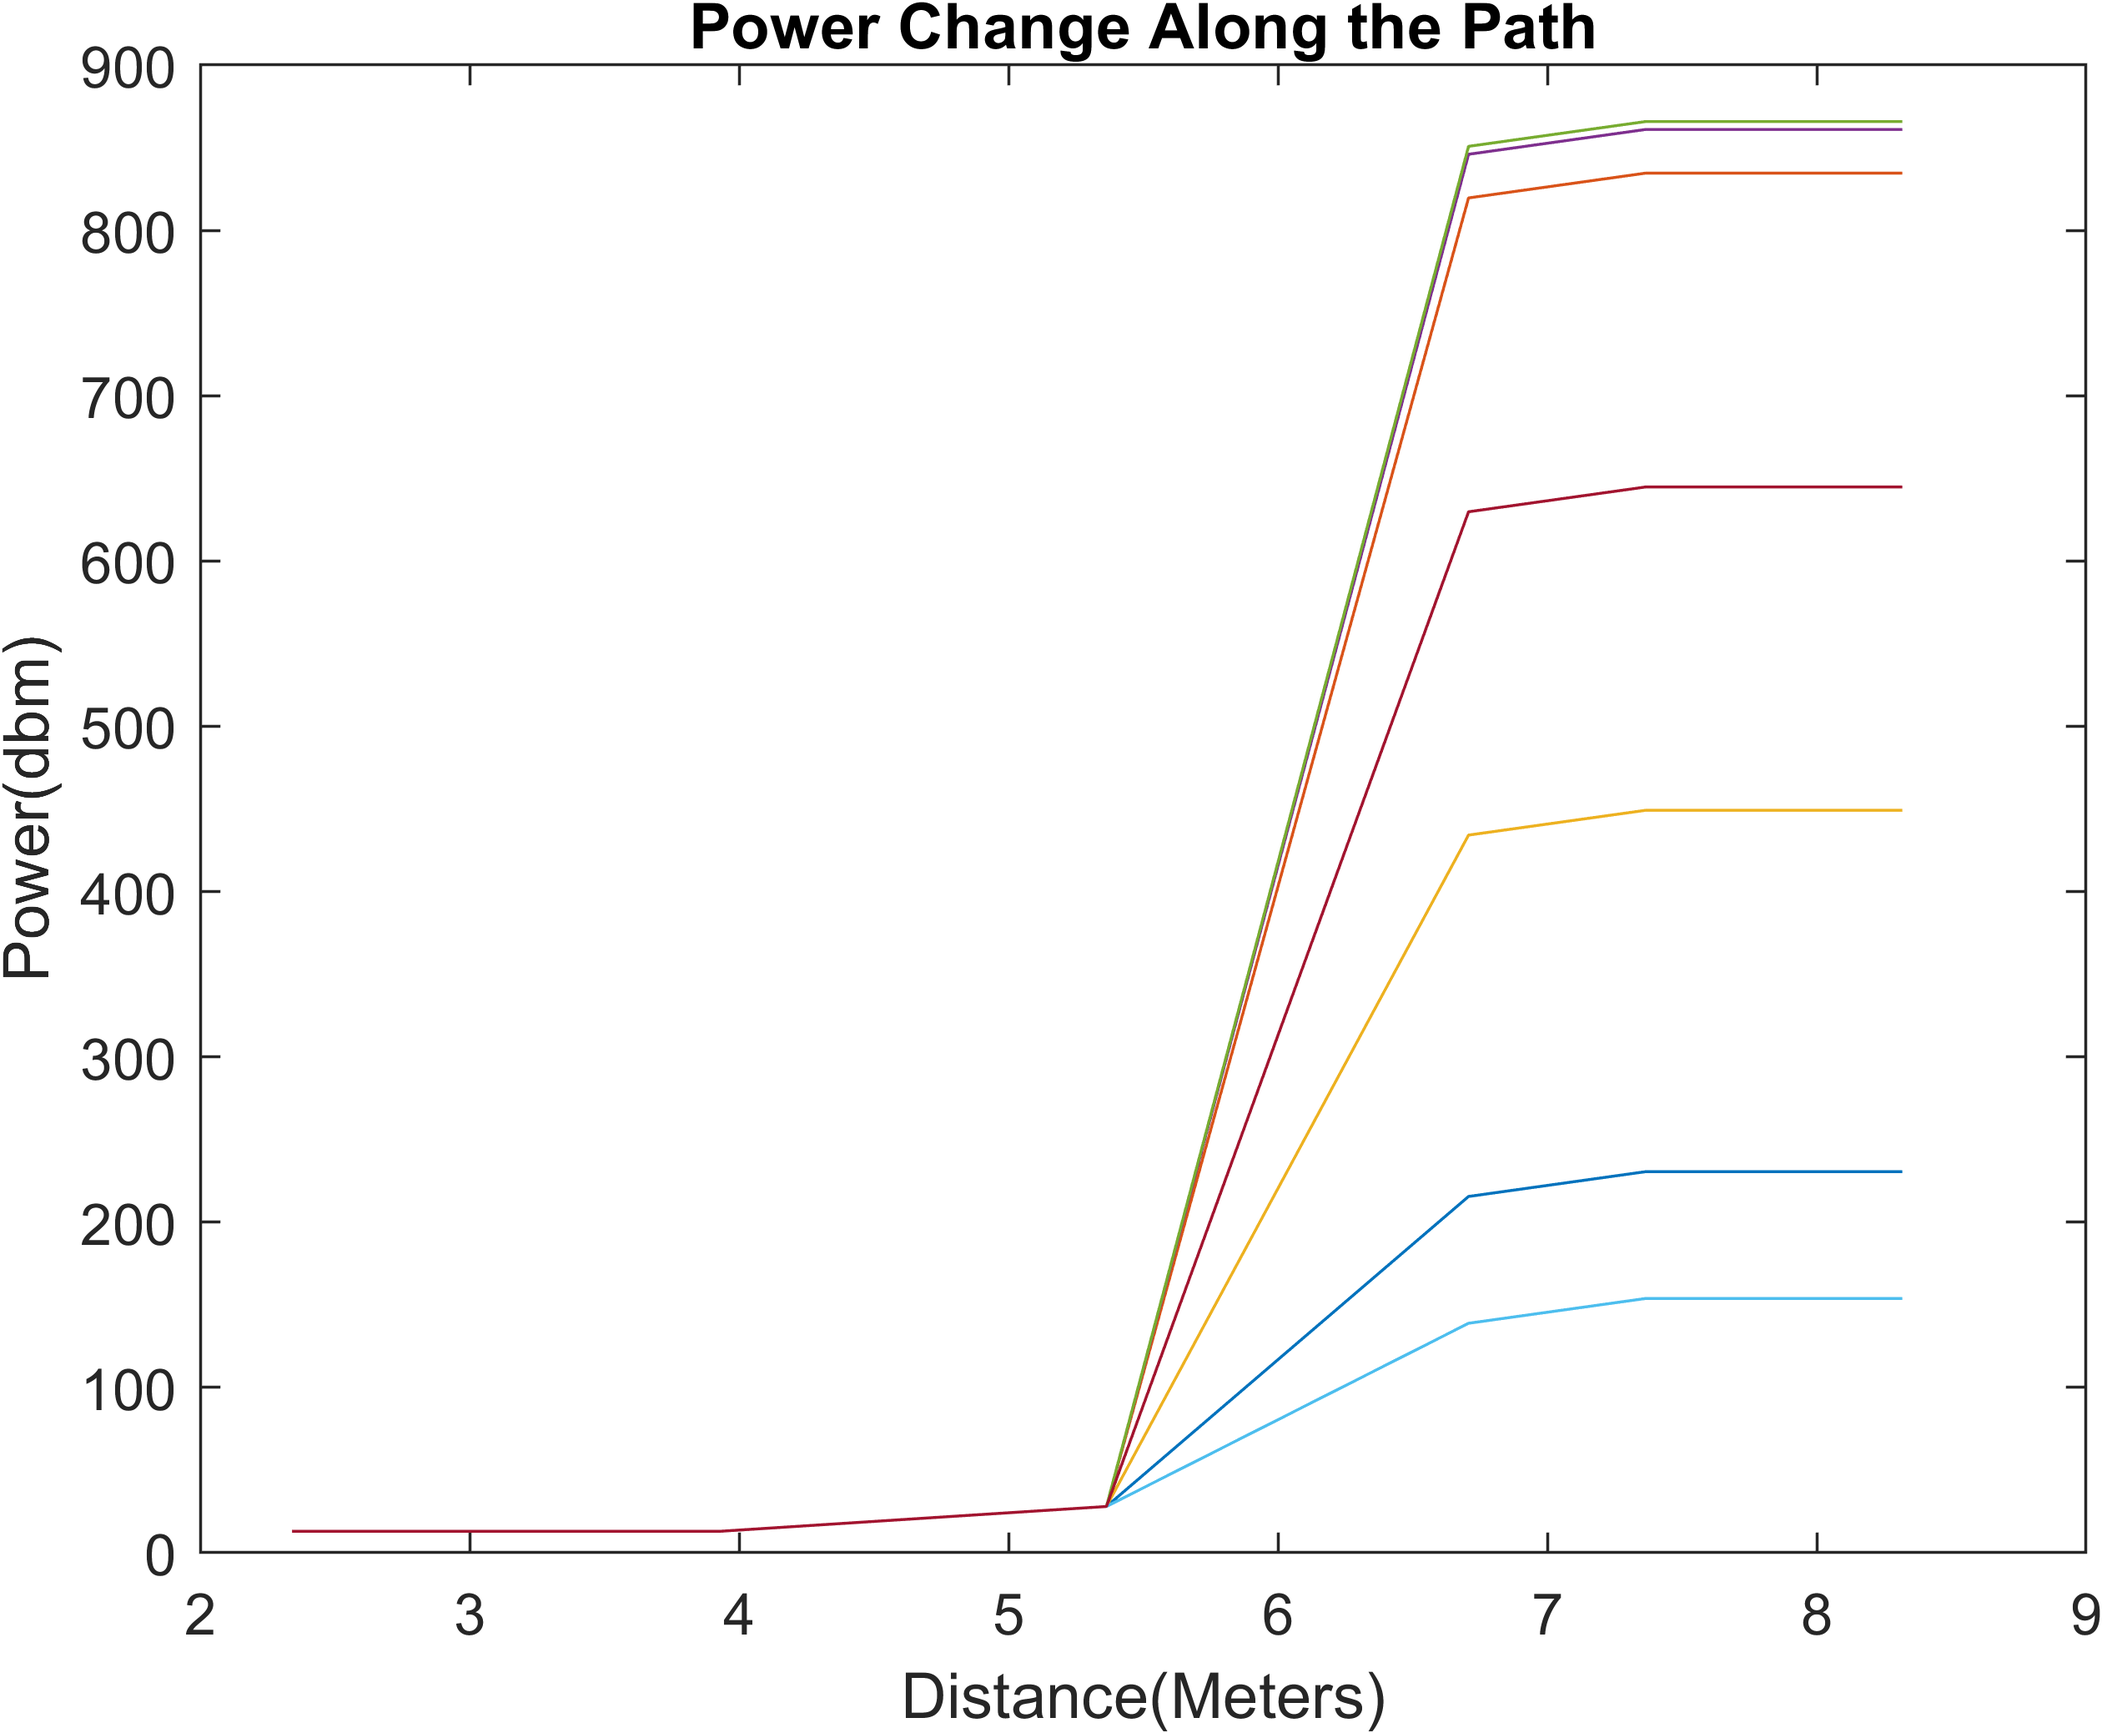
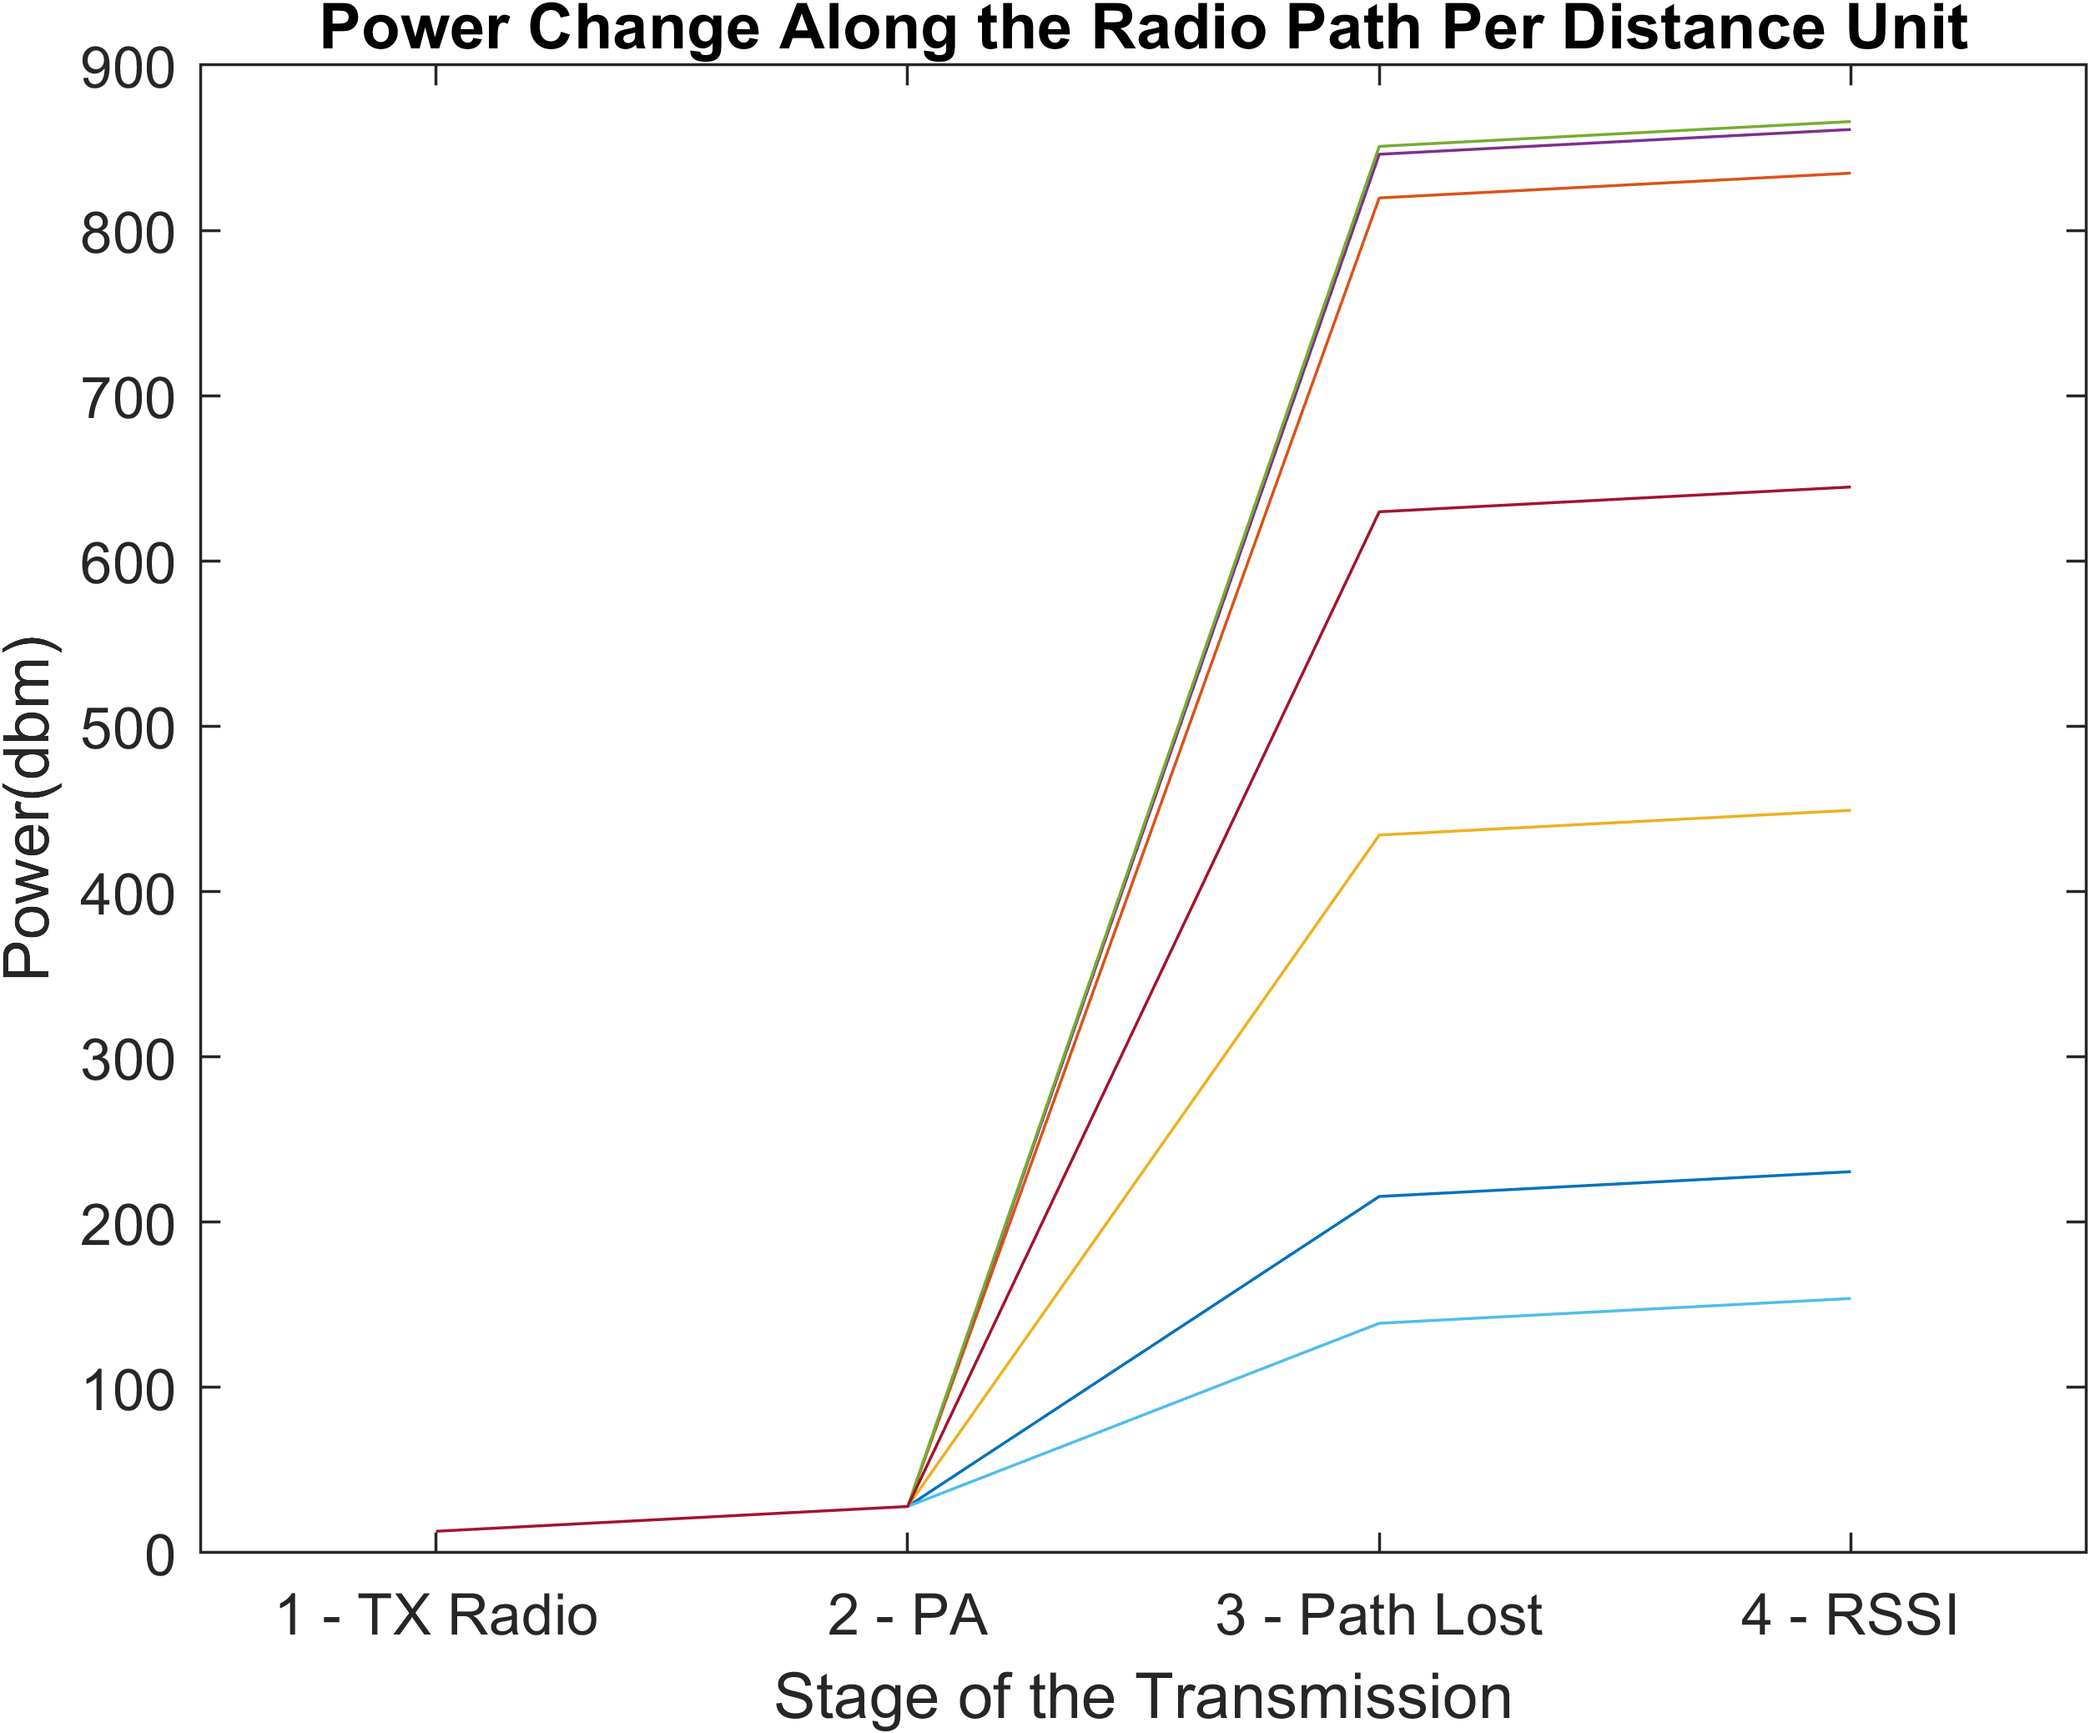
fix pull request commit and few bugs

diff --git a/data_collection/Plot.m b/data_collection/Plot.m
@@ -1,5 +1,6 @@
 
-files = dir('..\data\data_*.dat');
+files = dir(['..' filesep 'data' filesep 'data_*.dat'])
+%dir('..\data\data_*.dat');
 data_length=length(load(strcat(files(1).folder,'\',files(1).name), '-ascii'))
 %init variables
 rssi=double.empty(data_length,0);
@@ -60,7 +61,7 @@ exportgraphics(out,'result/graph/distance_power.png','Resolution',300)
 
 %Equition Solver for N
 %n = (20*log(f)-147.58 - Ldb)/10 /log(distance)
-f = 868*10^6
+f =  868.1*10^6
 syms n
 for i=2:length(distance_avg)
 eqn = 20*log(f)+10*n*log(distance_avg(i)) + -147.58 == Ldb(i)
@@ -84,12 +85,15 @@ figure(2);
 receive_power_lst = transmit_power-Ldb
 rssi_lst = receive_power_lst+gain
 for i=1:data_length
-    cur_path=[init_power;init_power;init_power;transmit_power;receive_power_lst(i);rssi_lst(i);rssi_lst(i)];
+    cur_path=[init_power;transmit_power;receive_power_lst(i);rssi_lst(i)];
     path = [path,cur_path];
 end
-plot(xdata,path)
-xlabel('Distance(Meters)'), ylabel('Power(dbm)')
-title('Power Change Along the Path')
+x_path = {'1 - TX Radio','2 - PA','3 - Path Lost','4 - RSSI'}
+C = categorical(x_path)
+
+plot(C,path)
+xlabel('Stage of the Transmission'), ylabel('Power(dbm)')
+title('Power Change Along the Radio Path Per Distance Unit')
 out = gca;
 exportgraphics(out,'result/graph/power_path.png','Resolution',500)
 
